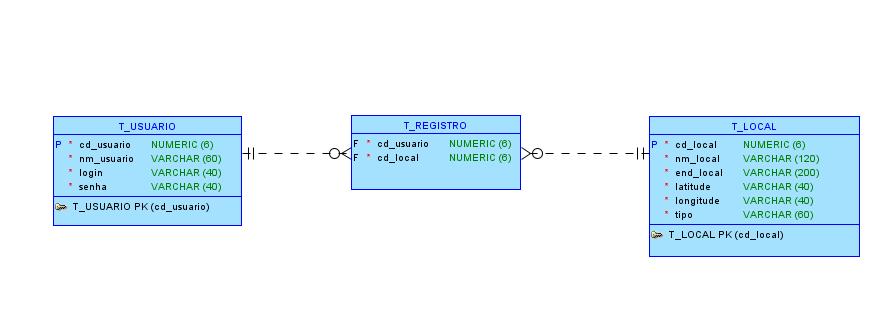
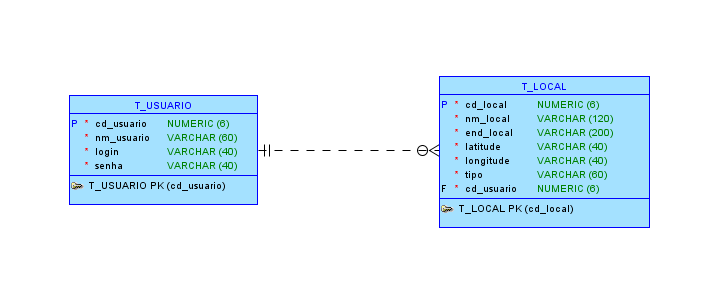
Atualiza README [4]

Changed region(s): [[0.0619, 0.2553, 0.9592, 0.8227]]

diff --git a/README.md b/README.md
@@ -30,5 +30,5 @@ O modelo lógico do banco vai ficar da seguinte maneira:
 
 <img src="img/tabela.PNG"></img>
 
-Haverá duas entidades principais (Usuário e Local) e uma de apoio para normalização
+Haverá duas entidades principais (Usuário e Local)
 
